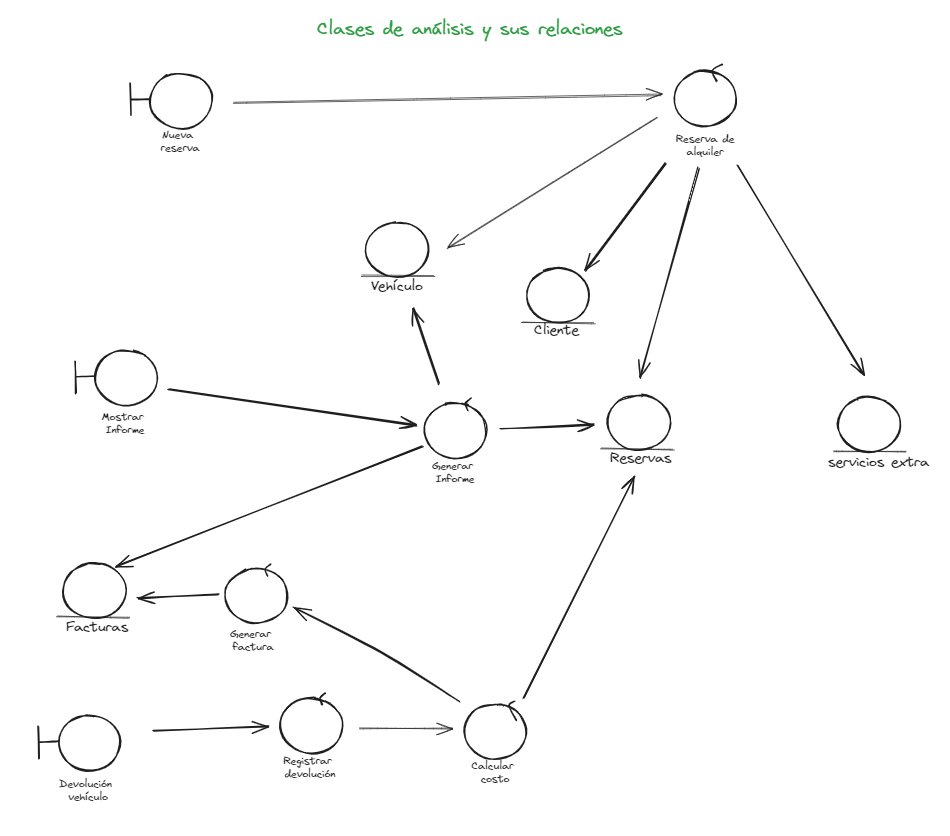
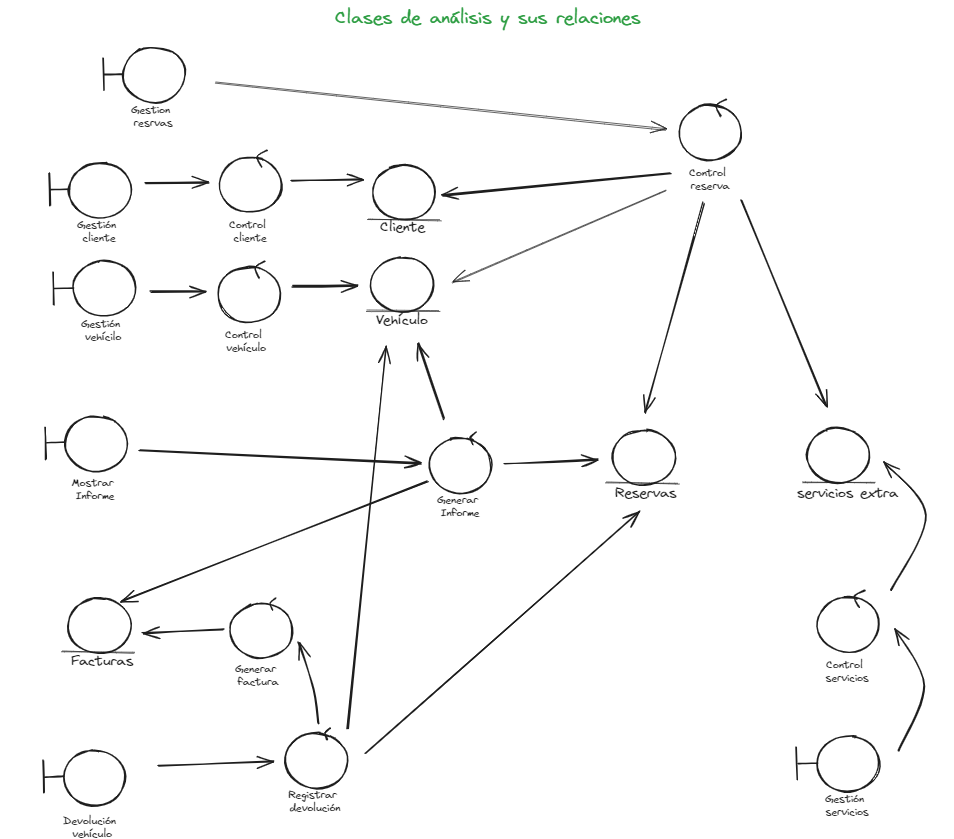
last changes

diff --git a/README.md b/README.md
@@ -15,64 +15,136 @@ Tema: Análisis de sistemas (Unidad 5)
 
 ![Analisis](Clases_de_analisis.png "analisis")
 
+### Atributos y métodos:
+**Gestion reservas:**
+    ListarReservas()
+    MostrarFormulario()
+**Control reservas:**
+    ListaReservas
+    AgregarReserva()
+    BorrarReserva()
+    ModificarReserva()
+    ListarReserva()
+**Reservas:**
+    fechaInicio
+    fechaFin
+    cliente
+    vehículo
+    serviciosExtra
+    estadoReserva
+    fechaReserva
+
+ **Gestion cliente:**
+    ListarClientes()
+    FormularioClientes()
+**Control cliente:**
+    ListaClientes
+    AgregarCliente()
+    BorrarCliente()
+    ModificarCliente()
+    ListarCliente()
+**Cliente:**
+    nombre
+    direccion
+    teléfono
+    email
+
+**Gestión vehículo:**
+    listarVehiculos()
+    FormularioVehiculos()
+**Control vehículo:**
+    ListaVehiculos
+    AgregarVehiculo()
+    BorrarVehiculo()
+    ModificarVehiculo()
+    ListarVehiculo()  
+**Vehículo:**
+    marca
+    modelo
+    año
+    matrícula
+    
+**Gestión de servicio:**
+	AgregarServicio()
+	BorrarServicio()
+	ModificarServicio()
+	ConsultarServicio()
+**Control servicios:**
+	 ListarServiciosExtra()
+	 AgregarServiciosExtra()
+	 BorrarServicioExtra()
+	 ModificarServicioExtra()
+**Servicios extra:**
+    nombre
+    descripción
+    
+**Facturas:**
+    cliente
+    fecha 
+    precio
+    servicios
+**Generar factura:**
+    ListaFacturas
+
+**Registrar devolución:**
+	ListaDeReservas
+    CalcularCosto()
+    ModificarVehiculo()
+**Mostrar Informe:**
+	MostrarInforme()
+**Generar Informe:**
+	ConsultarFacturas()
+	ConsultarReservas()
+	ConsultarVehiculos()
+
 **Paquetes de análisis**:
 
 ![Analisis](paquetes_analisis.png "analisis")
 
 ### REALIZACIONES DE CASOS DE USO:
-1. Gestionar Vehículo (alta, baja, modificación, consulta)
+### Gestionar reservas
+- Gestión reservas (interfaz)
+- Control reservas (control)
+- Reservas (entidad)
 
-- Interfaz registrar vehículos (Interfaz): Pantalla o ventana que permite ingresar los datos para la creación de los vehículos.
-- Controlador de vehículos (Control): Encargado de la creación, localización, modificación, eliminación y consultas de los vehículos.
-- Vehículo (Entidad): Contiene la información persistente de los vehículos del sistema.
+---
+### Gestionar clientes
+- Gestión cliente (interfaz)
+- Control cliente (control)
+- Cliente (entidad)
+
 
 ---
 
-2. Gestionar Cliente (alta, baja, modificación, consulta)
-
-- Interfaz registrar cliente (Interfaz): Pantalla o ventana que permite ingresar los datos para la creación de los clientes.
-- Controlador de clientes (Control): Encargado de la creación, localización, modificación, eliminación y consultas de los clientes.
-- Cliente (Entidad): Contiene la información persistente de los clientes del sistema.
-
----
-
-3. Gestionar Reserva (alta, baja, modificación, consulta)
-
-- Interfaz registrar reserva (Interfaz): Pantalla o ventana que permite ingresar los datos para la creación de las reservas.
-- Controlador de reservas (Control): Encargado de la creación, localización, modificación, eliminación y consultas de las reservas.
-- Reserva (Entidad): Contiene la información persistente de las reservas del sistema.
-- Vehículo (Entidad): Contiene la información persistente de los vehículos del sistema.
-- Cliente (Entidad): Contiene la información persistente de los clientes del sistema.
+### Gestionar vehículos
+- Gestión vehículo (interfaz)
+- Control vehículo (control)
+- Vehículo (entidad)
 
 ---
 
-4. Gestionar Devolución (alta, baja, modificación, consulta)
-
-- Interfaz registrar devolución (Interfaz): Pantalla o ventana que permite ingresar los datos para la creación de las devoluciones.
-- Controlador de devoluciones (Control): Encargado de la creación, localización, modificación, eliminación y consultas de las devoluciones.
-- Reserva (Entidad): Contiene la información persistente de las reservas del sistema.
-- Vehículo (Entidad): Contiene la información persistente de los vehículos del sistema.
-- Cliente (Entidad): Contiene la información persistente de los clientes del sistema.
-
----
-
-5. Gestionar Informes
-
-- Reserva (Entidad): Contiene la información persistente de las reservas del sistema.
-- Vehículo (Entidad): Contiene la información persistente de los vehículos del sistema.
-- Cliente (Entidad): Contiene la información persistente de los clientes del sistema.
+### Generar informe
+- Mostrar informe (interfaz)
+- Generar informe (control)
+- Vehículo (entidad)
+- Reservas (entidad)
+- Facturas (entidad)
 
 ---
 
-6. Gestionar Servicios Extra
-
-- Interfaz gestionar servicios extra (Interfaz): Pantalla o ventana que permite gestionar servicios adicionales como seguro, silla de bebé, etc.
-- Controlador de servicios extra (Control): Encargado de la creación, localización, modificación, eliminación y consultas de los servicios extra.
-- Servicios Extra (Entidad): Contiene la información persistente de los servicios extra del sistema.
+### Gestionar servicios extra
+- Gestión servicios (interfaz)
+- Control servicios (control)
+- Servicios extra (entidad)
 
 ---
 
-7. Calcular Costo
+### Gestionar devolucion
+- Devolución vehículo (interfaz)
+- Registrar devolución (control)
+- Reservas (entidad)
+- Generar factura (control)
+- Facturas (entidad)
+- Vehículo (entidad)
 
-- Interfaz calcular costo (Interfaz): Pantalla o ventana que permite calcular el costo total del alquiler basado en los días, tipo de vehículo y servicios adicionales.
-- Controlador de costo (Control): Encargado de la lógica de cálculo de costos del alquiler.
+---
